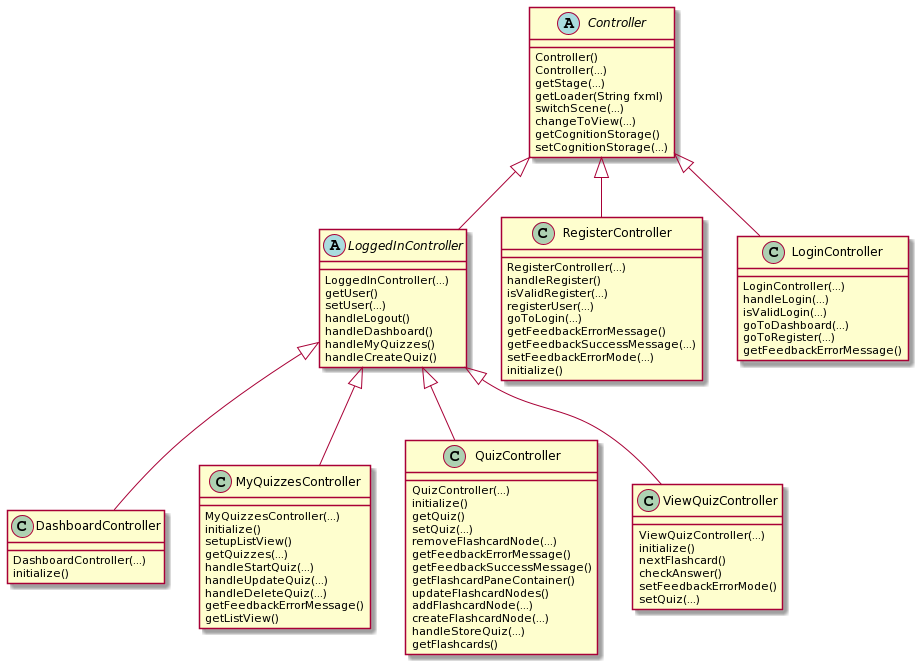
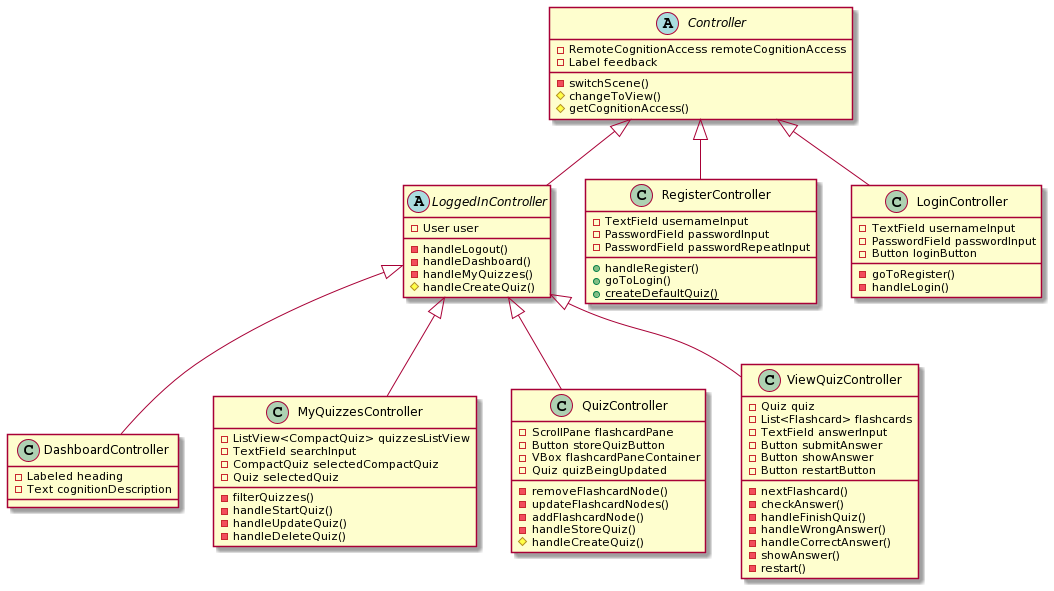
feat: update ui class diagram
WHAT: update ui class diagram to the same standard as core and api

WHY: so that all class diagrams follow the same standard and are more easily readable

Reference: #97

diff --git a/docs/release3/DIAGRAMS.md b/docs/release3/DIAGRAMS.md
@@ -14,8 +14,9 @@ This package diagram shows the dependencies of each module and package in the Co
 
 ## Class diagram documentation
 
-We have chosen to both model these relationships abstracted and detailed. This is done in order for a new developer to
-get an abstracted overview of the relationships before reading the details of a UI controller.
+We have chosen to model the class diagrams for all modules in two different ways. The result is an `abstract` and `detailed` version of each class diagram. The `abstract` diagram helps a new developer get an overview of the relationships and roles of each class before reading the `detailed` version, which in essence, is the more familiar way of drawing class diagrams. We choose this way of presenting the modules as it helps new developers to the project quickly understand the purpose of each class and how that comes into play in the broader task of the module.
+
+Additionaly none of the `detailed` class diagram does not include setter and getter methods as well as variables and functions that are not necesary to get an overview of the classes function and its relationship to other classes. For a more detailed explanation of each module please navigate to the documentation of the module.
 
 ### Core
 
@@ -33,6 +34,16 @@ get an abstracted overview of the relationships before reading the details of a 
 
 **Detailed**
 ![API Class Diagram](../plantuml/release3/img/api_detailed.png)
+
+### UI
+
+**Abstracted**
+
+![Interaction between UI controllers](../plantuml/release2/img/ui_controllers_abstracted.png)
+
+**Detailed**
+
+![Interaction between UI controllers](../plantuml/release2/img/ui_controllers_detailed.png)
 
 ## Sequence diagram documentation
 

diff --git a/docs/release2/ARCHITECTURE.md b/docs/release2/ARCHITECTURE.md
@@ -64,6 +64,8 @@ get an abstracted overview of the relationships before reading the details of a 
 
 ![Interaction between UI controllers](../plantuml/release2/img/ui_controllers_detailed.png)
 
+> This diagram does not show every function and variable in every class. It show what we deemed important to get an overview of each class function and its realationship to the other classes.
+
 Some of our controller have quite a bit of shared logic. Thus, we have abstracted this logic away from each extending
 controller, and rather put all shared logic in abstract controller classes (e.g. `Controller`, `LoggedInController`).
 
